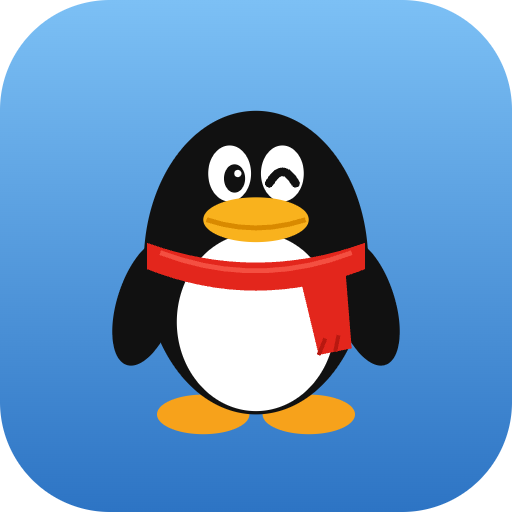
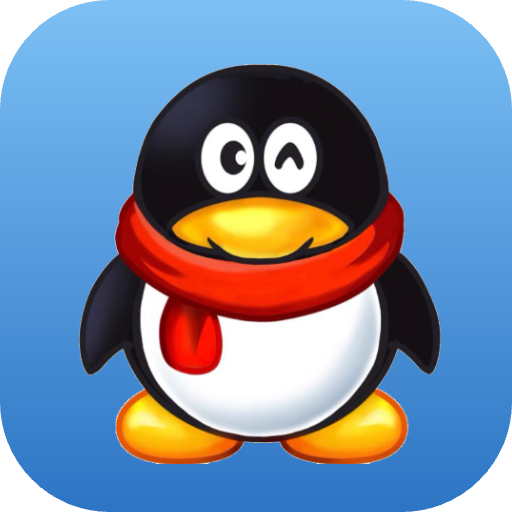
QQ2008：企鹅换成她发的那张图（白底抠掉，构建时内联），图标蓝底配这只企鹅，登录页和标题栏都用它
Claude-Session: https://claude.ai/code/session_01SZYufyM6oAcgrUtHBNzCeC

diff --git a/custom-apps/qq/src/app.js b/custom-apps/qq/src/app.js
@@ -112,17 +112,8 @@
   const richText = t => esc(t).replace(FACE_RE, (_, n) => faceSvg(n, 20));
 
   // ───────────────────────── 企鹅（照她发的 QQ2011 登录图画的：黑身白肚、一只眼眨、大黄嘴、红围巾） ─────────────────────────
-  const PENGUIN = (w, h) => `<svg width="${w}" height="${h}" viewBox="0 0 100 112">
-<ellipse cx="34" cy="104" rx="14" ry="6" fill="#f7a21b"/><ellipse cx="66" cy="104" rx="14" ry="6" fill="#f7a21b"/>
-<ellipse cx="17" cy="70" rx="9" ry="20" fill="#111" transform="rotate(18 17 70)"/><ellipse cx="83" cy="70" rx="9" ry="20" fill="#111" transform="rotate(-18 83 70)"/>
-<ellipse cx="50" cy="58" rx="34" ry="46" fill="#111"/><ellipse cx="50" cy="76" rx="24" ry="27" fill="#fff"/>
-<ellipse cx="42" cy="31" rx="6.5" ry="8.5" fill="#fff"/><ellipse cx="58" cy="31" rx="6.5" ry="8.5" fill="#fff"/>
-<ellipse cx="43.5" cy="32.5" rx="3.2" ry="4.3" fill="#111"/><circle cx="44.5" cy="31" r="1.1" fill="#fff"/>
-<path d="M54 34 Q58 27 62 34" stroke="#111" stroke-width="2.6" fill="none" stroke-linecap="round"/>
-<ellipse cx="50" cy="45" rx="16" ry="6.8" fill="#f9b21d"/><path d="M35 45 Q50 50 65 45" stroke="#d98a00" stroke-width="1.5" fill="none"/>
-<path d="M17 52 Q50 64 83 52 L83 60 Q50 73 17 60 Z" fill="#e3261c"/>
-<path d="M63 61 L77 59 L79 84 L69 86 Z" fill="#e3261c"/><path d="M69 86 L71 81 M74 85 L75 80" stroke="#b81810" stroke-width="1.2"/>
-<path d="M21 55 Q50 66 79 55" stroke="#ff6a5a" stroke-width="1.5" fill="none" opacity=".6"/></svg>`;
+  const PENG_IMG = "/*__PENGUIN__*/"; // 她发的那张企鹅（白底抠掉），构建时内联
+  const PENGUIN = (w, h) => `<img class="peng" src="${PENG_IMG}" alt="" style="width:${w}px;height:${h}px;object-fit:contain">`;
 
   // ───────────────────────── 状态和存档 ─────────────────────────
   // meta：{ accts: { a08|a26: { nick, qq, sig, avatarRef, status, zone } }, cur, last, auto, font, music: [{id,name,ref}], queue, sound }
@@ -241,13 +232,13 @@
     if (S.view === "chat") { const log = $("#log"); if (log) log.scrollTop = log.scrollHeight; }
   }
   const V = {};
-  const titlebar = (title, back) => `<div class="tbar">${PENGUIN(18, 20)}<span>${esc(title)}</span><div class="x">${back ? `<button data-act="${back}" title="返回">‹</button>` : ""}<button data-act="${back || "logout"}" class="close">×</button></div></div>`;
+  const titlebar = (title, back) => `<div class="tbar">${PENGUIN(22, 22)}<span>${esc(title)}</span><div class="x">${back ? `<button data-act="${back}" title="返回">‹</button>` : ""}<button data-act="${back || "logout"}" class="close">×</button></div></div>`;
 
   V.login = () => {
     const sel = S.meta.last || "a08";
     return `<div class="login">
       ${titlebar("QQ2008 用户登录")}
-      <div class="logo">${PENGUIN(96, 108)}<b>QQ2008</b><small>弹指间 心无间</small></div>
+      <div class="logo">${PENGUIN(120, 118)}<b>QQ2008</b><small>弹指间 心无间</small></div>
       <div class="card">
         <div class="lab">选择要登录的号码</div>
         ${["a08", "a26"].map(k => { const a = S.meta.accts[k]; if (!a) return ""; return `<button class="acc ${sel === k ? "on" : ""}" data-act="pick-acct" data-k="${k}">${avatar({ ref: a.avatarRef, url: a.avatarRef ? "" : S.profile.avatarUrl, seed: "me" }, 40)}<div><b>${esc(a.nick)}</b><small>QQ：${esc(a.qq)}</small></div><span class="yr ${k === "a26" ? "n" : ""}">${ACCTS[k].label}</span></button>`; }).join("")}
@@ -258,7 +249,7 @@
       <div class="tip">· 2008 号里是 2008 年的人<br>· 2026 号里是现在的人<br>· 两个号的好友、空间、留言板都分开</div>
     </div>`;
   };
-  V.logging = () => `<div class="login">${titlebar("QQ2008")}<div class="logo">${PENGUIN(96, 108)}<b>正在登录…</b><div class="pbar"><i></i></div></div></div>`;
+  V.logging = () => `<div class="login">${titlebar("QQ2008")}<div class="logo">${PENGUIN(120, 118)}<b>正在登录…</b><div class="pbar"><i></i></div></div></div>`;
 
   V.main = () => {
     const a = A(); const lv = levelOf(S.meta.cur); const fs = myFriends();
@@ -718,7 +709,7 @@
   document.addEventListener("input", e => { if (e.target.id === "srch") { S.search = e.target.value; const pos = e.target.selectionStart; render(); const i = $("#srch"); i.focus(); i.setSelectionRange(pos, pos); } });
   document.addEventListener("keydown", e => { if (e.target.id === "inp" && e.key === "Enter" && (e.ctrlKey || e.metaKey)) { e.preventDefault(); ACT.send(); } });
   async function boot() {
-    $("#app").innerHTML = `<div class="login"><div class="logo" style="padding-top:160px">${PENGUIN(96, 108)}<b>QQ2008</b></div></div>`;
+    $("#app").innerHTML = `<div class="login"><div class="logo" style="padding-top:160px">${PENGUIN(120, 118)}<b>QQ2008</b></div></div>`;
     await loadAll();
     if (S.meta.auto && S.meta.cur) { S.view = "main"; render(); watchStatus(true); tick(); } else { S.meta.cur = null; S.view = "login"; render(); }
     setInterval(tick, 3000);
